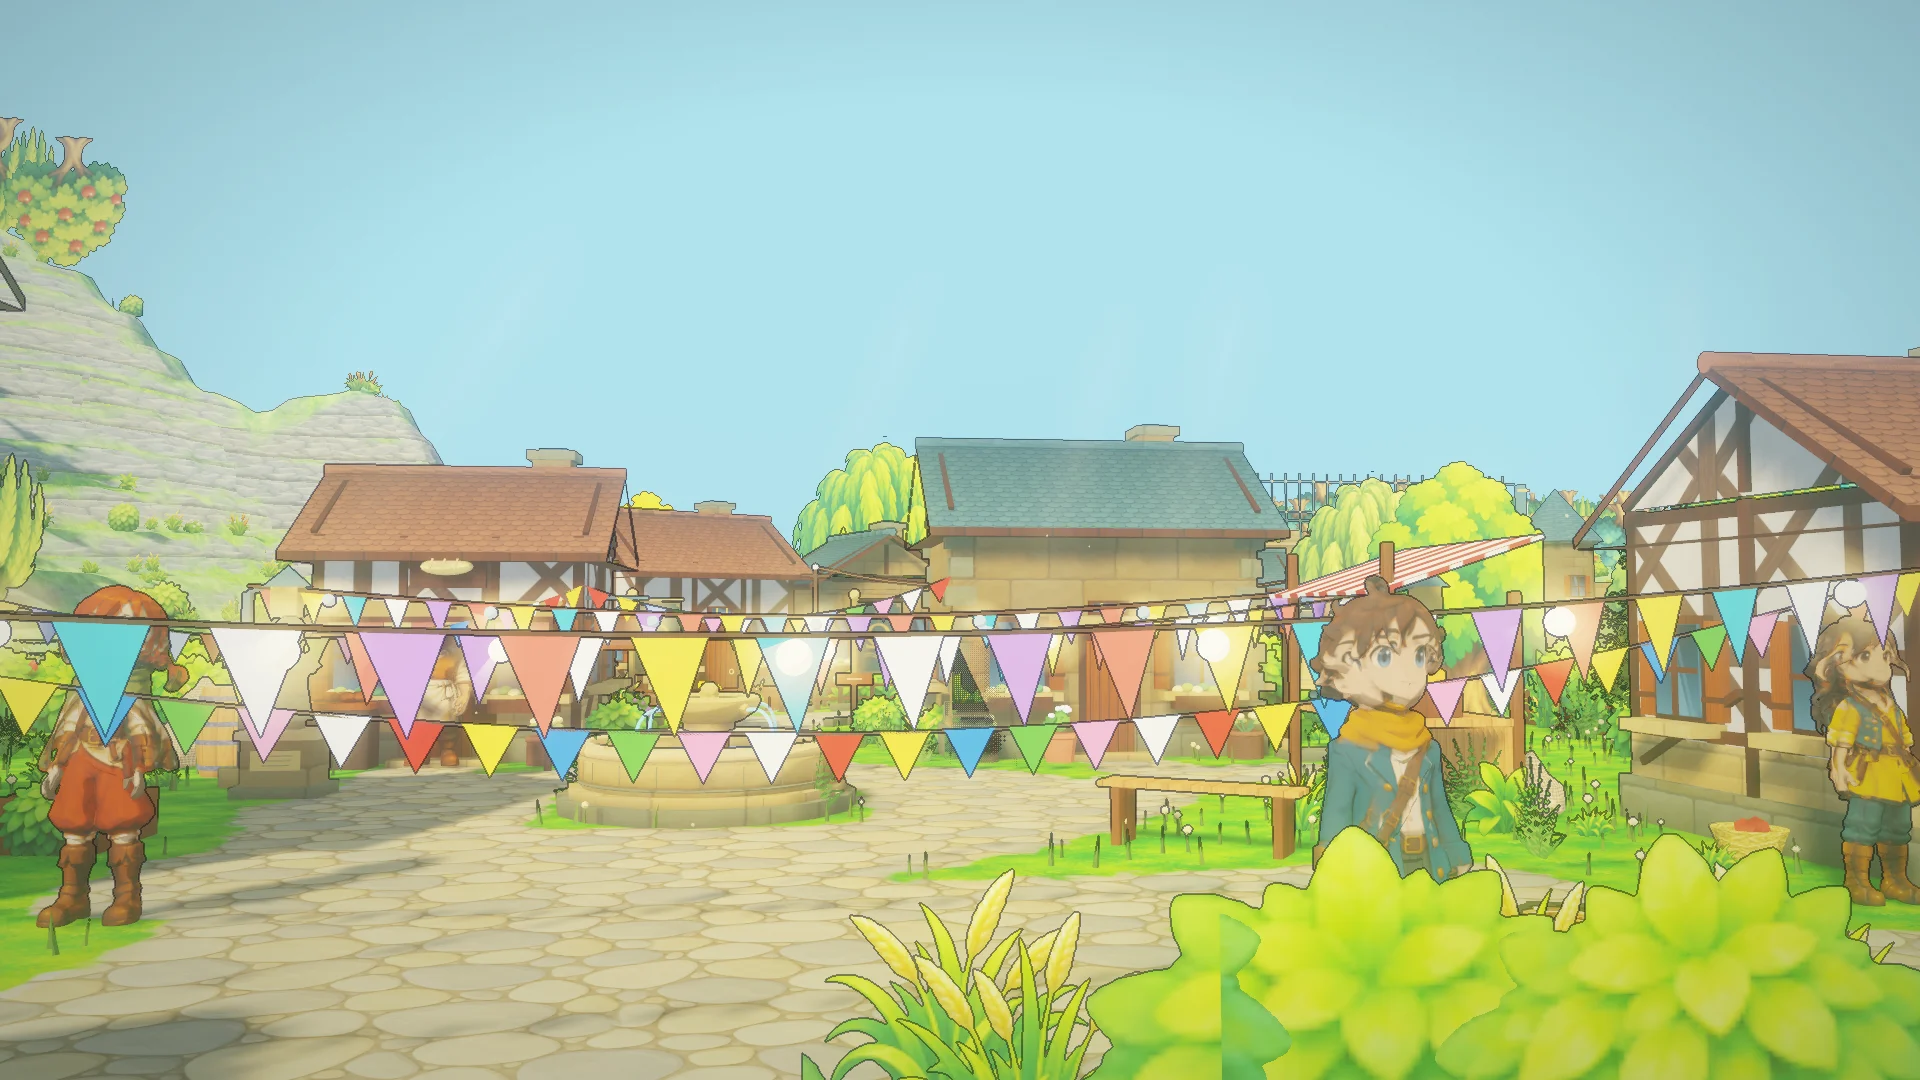
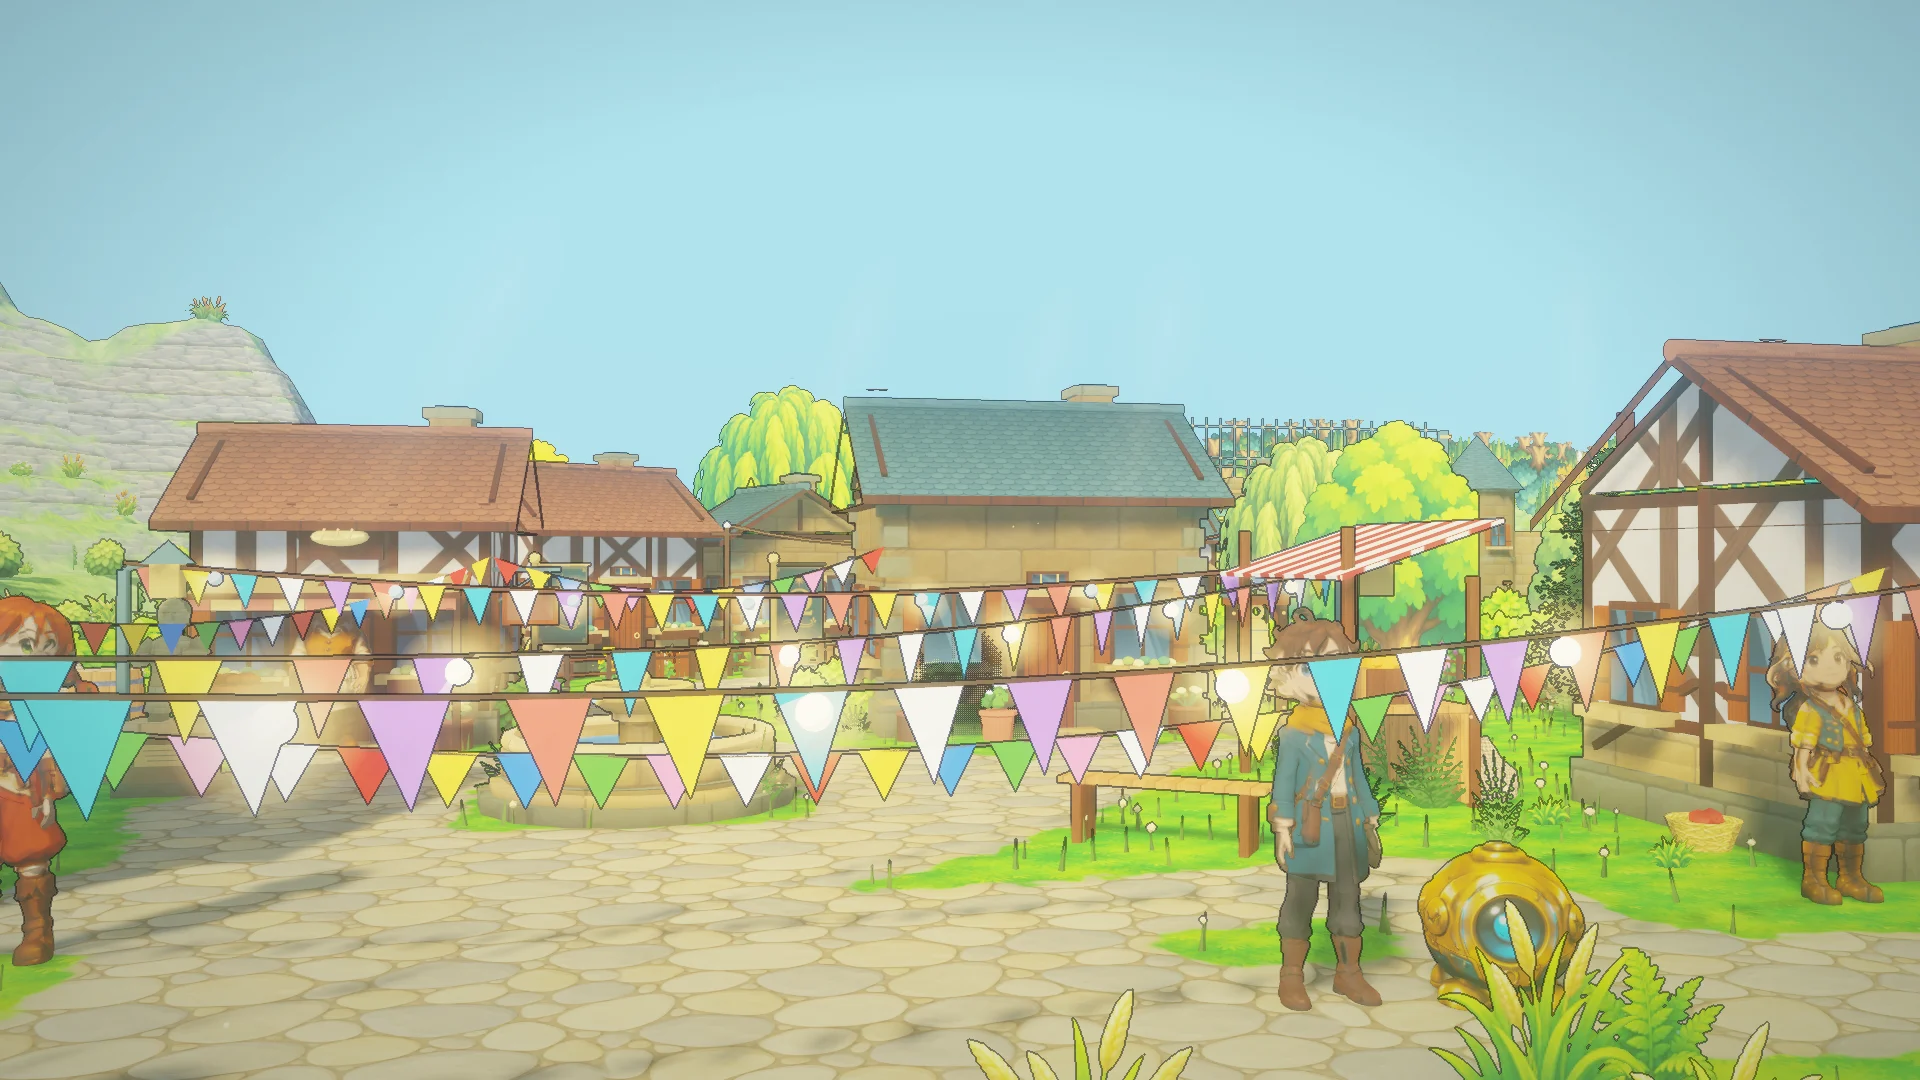
Arco I jugado completo en el estilo X e Y con los diez personajes en 3D, y lo que el juego reveló
Recorrido de punta a punta sin errores (?estilo=xy&gente=3d). Al jugarlo: el viajero apoyado en
una baranda quedaba inmóvil (ahora sale al punto libre más cercano, con prueba), el contorno pedía
la profundidad antes de tiempo (textura de reserva), las llegadas se llenaban de arbustos (menos
vegetación de relleno y cámara algo más abierta en X e Y) y el taller sin restaurar era ilegible.
Interfaz y bancos en X e Y, cielo azul y portada con el reino real.

diff --git a/experiments/playcanvas/src/xy-ui.css b/experiments/playcanvas/src/xy-ui.css
@@ -38,5 +38,14 @@ html[data-estilo="xy"] :is(#ohm-button,#journal-button,#map-button,#guide-button
 html[data-estilo="xy"] :is(#ohm-button,#journal-button,#map-button,#guide-button,#pause-button) *{color:var(--xy-blue-deep)!important;stroke:currentColor}
 html[data-estilo="xy"] #travel-instrument{border-radius:24px!important}
 /* The title: the kingdom itself (scripts/portada.mjs), a soft shade on the left so the name reads. */
-html[data-estilo="xy"] .title-art{background-image:linear-gradient(90deg,#0d2a44cc 0%,#0d2a4488 30%,#0d2a4400 55%),url('/assets/xy/portada.webp')!important;background-size:cover!important;background-position:center!important}
+html[data-estilo="xy"] .title-art{background-image:linear-gradient(90deg,#0d2a44dd 0%,#0d2a4499 28%,#0d2a4400 48%),url('/assets/xy/portada.webp')!important;background-size:cover!important;background-position:center!important}
 html[data-estilo="xy"] .title-screen :is(h1,.title-logo){text-shadow:0 3px 0 #0d2a4480,0 0 30px #0d2a4466}
+/* The arrival banner: a white rounded plate with the place's name, as when entering a town. */
+html[data-estilo="xy"] .arrival{background:none!important}
+html[data-estilo="xy"] .arrival::before,html[data-estilo="xy"] .arrival::after{display:none!important}
+html[data-estilo="xy"] .arrival h2{display:inline-block;background:#fff;color:var(--xy-blue-deep)!important;font-family:var(--xy-font)!important;font-weight:800;padding:8px 28px 10px;border-radius:999px;border:4px solid var(--xy-blue);box-shadow:0 6px 0 var(--xy-blue-deep),0 14px 30px #0b2a4440;text-shadow:none!important}
+html[data-estilo="xy"] .arrival p{color:#fff!important;font-family:var(--xy-font)!important;font-weight:700;text-shadow:0 2px 0 #0b2a44aa,0 0 14px #0b2a4488!important}
+html[data-estilo="xy"] .arrival .eyebrow{color:#fff!important;text-shadow:0 2px 0 #0b2a44aa!important}
+html[data-estilo="xy"] .arrival-line{display:none}
+html[data-estilo="xy"] .title-shade{background:linear-gradient(0deg,#0d2a4455,transparent 30%)!important}
+html[data-estilo="xy"] .title-art{background-position:60% center!important}

diff --git a/experiments/playcanvas/src/world.js b/experiments/playcanvas/src/world.js
@@ -545,7 +545,7 @@ export class PlayCanvasWorld {
   }
   updateEnvironment(dt,reduced){
     const f=this.state.flags,phase=journeyPhase(this.state),inside=this.indoors(),mix=1-Math.exp(-dt*.8);this.lampLevel??=phase.lamps;this.lampLevel+=(phase.lamps-this.lampLevel)*mix;
-    const n=this.lampLevel;if(this.wasInside!==inside){this.wasInside=inside;if(inside)this.camera.camera.clearColor=color('#000000');}const lit=!inside||!!this.home||f.workshop;this.sun.light.intensity+=((inside?(this.home?.16:lit?.85:.5):phase.intensity*.5)-this.sun.light.intensity)*mix;this.sun.light.color.lerp(this.sun.light.color,xySun(color(phase.sun)),mix);this.app.scene.ambientLight.lerp(this.app.scene.ambientLight,color(inside?(this.home?'#3a2e26':lit?'#7c7967':'#4d5a63'):XY?(n>.7?'#7d93c4':'#a9bcd6'):n>.7?'#687f9b':'#92a7a0'),mix);this.camera.camera.clearColor.lerp(this.camera.camera.clearColor,color(inside?'#000000':(XY&&XY_SKIES[phase.id])||phase.sky),mix);
+    const n=this.lampLevel;if(this.wasInside!==inside){this.wasInside=inside;if(inside)this.camera.camera.clearColor=color('#000000');}const lit=!inside||!!this.home||f.workshop;this.sun.light.intensity+=((inside?(this.home?.16:lit?.85:.5):phase.intensity*.5)-this.sun.light.intensity)*mix;this.sun.light.color.lerp(this.sun.light.color,xySun(color(phase.sun)),mix);this.app.scene.ambientLight.lerp(this.app.scene.ambientLight,color(inside?(this.home?(XY?'#6a5a4c':'#3a2e26'):lit?(XY?'#9a9682':'#7c7967'):(XY?'#7d8a96':'#4d5a63')):XY?(n>.7?'#7d93c4':'#a9bcd6'):n>.7?'#687f9b':'#92a7a0'),mix);this.camera.camera.clearColor.lerp(this.camera.camera.clearColor,color(inside?'#000000':(XY&&XY_SKIES[phase.id])||phase.sky),mix);
     // A place nobody has restored yet is literally dimmer: muted and cool. Its colour floods
     // back with the restoration, and crossing into a forgotten place drains it again.
     const alive=f[power[this.area.id]]?1:0;this.vitality??=alive;

diff --git a/experiments/playcanvas/src/game/collision.js b/experiments/playcanvas/src/game/collision.js
@@ -88,8 +88,21 @@ function stopAxisAtWall(position, target, axis, obstacles, radius) {
  * position explicitly instead of movement silently teleporting through a wall.
  */
 export function moveWithCollisions(start, delta, bounds, obstacles = [], options = {}) {
-  const position = [...start];
-  if (!finitePoint(delta) || !isPositionClear(position, bounds, obstacles, options)) return position;
+  let position = [...start];
+  if (!finitePoint(delta)) return position;
+  if (!isPositionClear(position, bounds, obstacles, options)) {
+    // A walker resting a few centimetres inside a clearance (against a railing, after a talk) steps out
+    // to the nearest clear point first, preferring the way it wants to go. Truly embedded: no move.
+    const touch = { ...options, radius: 0 };
+    if (!isPositionClear(position, bounds, obstacles, touch)) return position;
+    const len = Math.hypot(delta[0], delta[1]) || 1, want = [delta[0] / len, delta[1] / len];
+    const leads = [];
+    for (let r = .01; r <= .0801; r += .01) for (let i = 0; i < 16; i++) { const a = i * Math.PI / 8, d = [Math.cos(a), Math.sin(a)]; leads.push({ r, d, score: r - (d[0] * want[0] + d[1] * want[1]) * .03 }); }
+    leads.sort((a, b) => a.score - b.score);
+    const lead = leads.map(l => [start[0] + l.d[0] * l.r, start[1] + l.d[1] * l.r]).find(p => isPositionClear(p, bounds, obstacles, options) && isSegmentClear(start, p, bounds, obstacles, touch));
+    if (!lead) return position;
+    position = lead; start = lead;
+  }
   const { radius = .34, margin = .6, maxStep = .1 } = options;
   const halfX = bounds[0] / 2 - margin, halfZ = bounds[1] / 2 - margin;
   const goal = [Math.max(-halfX, Math.min(halfX, start[0] + delta[0])), Math.max(-halfZ, Math.min(halfZ, start[1] + delta[1]))];

diff --git a/src/collision.js b/src/collision.js
@@ -88,8 +88,21 @@ function stopAxisAtWall(position, target, axis, obstacles, radius) {
  * position explicitly instead of movement silently teleporting through a wall.
  */
 export function moveWithCollisions(start, delta, bounds, obstacles = [], options = {}) {
-  const position = [...start];
-  if (!finitePoint(delta) || !isPositionClear(position, bounds, obstacles, options)) return position;
+  let position = [...start];
+  if (!finitePoint(delta)) return position;
+  if (!isPositionClear(position, bounds, obstacles, options)) {
+    // A walker resting a few centimetres inside a clearance (against a railing, after a talk) steps out
+    // to the nearest clear point first, preferring the way it wants to go. Truly embedded: no move.
+    const touch = { ...options, radius: 0 };
+    if (!isPositionClear(position, bounds, obstacles, touch)) return position;
+    const len = Math.hypot(delta[0], delta[1]) || 1, want = [delta[0] / len, delta[1] / len];
+    const leads = [];
+    for (let r = .01; r <= .0801; r += .01) for (let i = 0; i < 16; i++) { const a = i * Math.PI / 8, d = [Math.cos(a), Math.sin(a)]; leads.push({ r, d, score: r - (d[0] * want[0] + d[1] * want[1]) * .03 }); }
+    leads.sort((a, b) => a.score - b.score);
+    const lead = leads.map(l => [start[0] + l.d[0] * l.r, start[1] + l.d[1] * l.r]).find(p => isPositionClear(p, bounds, obstacles, options) && isSegmentClear(start, p, bounds, obstacles, touch));
+    if (!lead) return position;
+    position = lead; start = lead;
+  }
   const { radius = .34, margin = .6, maxStep = .1 } = options;
   const halfX = bounds[0] / 2 - margin, halfZ = bounds[1] / 2 - margin;
   const goal = [Math.max(-halfX, Math.min(halfX, start[0] + delta[0])), Math.max(-halfZ, Math.min(halfZ, start[1] + delta[1]))];

diff --git a/tests/navigation.test.js b/tests/navigation.test.js
@@ -1,6 +1,7 @@
 import test from 'node:test';
 import assert from 'node:assert/strict';
 import {findPath} from '../src/navigation.js';
+import {moveWithCollisions} from '../src/collision.js';
 function assertClear(start,path,obstacles){let a=start;for(const b of path){for(let t=0;t<=1;t+=.01){const x=a[0]+(b[0]-a[0])*t,z=a[1]+(b[1]-a[1])*t;assert.ok(!obstacles.some(o=>Math.abs(x-o.x)<o.w+.34&&Math.abs(z-o.z)<o.d+.34),'route crosses an obstacle');}a=b;}}
 test('click-to-walk routes around a building through real open space',()=>{const obstacles=[{x:0,z:0,w:2,d:3}],start=[-6,0],goal=[6,0];const path=findPath(start,goal,[20,20],obstacles);assert.ok(path.length>1);assert.deepEqual(path.at(-1),goal);assertClear(start,path,obstacles);});
 test('direct unobstructed walking remains direct',()=>assert.deepEqual(findPath([0,0],[5,5],[20,20],[]),[[5,5]]));
@@ -54,4 +55,11 @@ test('a walker resting against a railing still gets a route, leaving from its ow
   assert.ok(path[0][1]>=.44,'It starts on the walker\'s side of the railing');
   assertClear(path[0],path.slice(1),railing);
   assert.deepEqual(path.at(-1),goal);
+});
+
+test('a walker grazing a railing can always step away from it',()=>{
+  // The Lago's dock: after talking to Nereo the traveller rested 2 cm inside the railing's clearance
+  // and no key moved it any more.
+  const railing=[{x:0,z:0,w:4,d:.1}],start=[1,.42],opts={radius:.34};
+  for(const delta of [[-.2,0],[0,.2],[.2,0],[-.14,.14]]){const end=moveWithCollisions(start,delta,[20,20],railing,opts);assert.ok(Math.hypot(end[0]-start[0],end[1]-start[1])>.05,`moves ${delta}`);assert.ok(end[1]>=.44,'stays on its side');}
 });

diff --git a/experiments/playcanvas/src/flora.js b/experiments/playcanvas/src/flora.js
@@ -106,8 +106,8 @@ export async function sowFlora(world){
       if(shoreline)pool=REEDS;
       else if(clear==='low'){if(r>.18)continue;pool=SHORT;}
       else if(garden){if(r>.35)continue;pool=GARDEN;}
-      else if(edge){if(r>.3)continue;pool=EDGE;}
-      else if(!inside){if(r>.1+patch*.55)continue;pool=WILD;}
+      else if(edge){if(r>(XY?.18:.3))continue;pool=EDGE;}
+      else if(!inside){if(r>(.1+patch*.55)*(XY?.4:1))continue;pool=WILD;}
       else{if(r>patch*.3-.06)continue;pool=LOW;}
       let [sheet,row,height]=pick(pool,hash(gx,gz,4));
       if(clear==='bloom'&&FLOWERS.has(sheet+row))[sheet,row,height]=['a',0,.4];
@@ -135,7 +135,8 @@ export async function sowFlora(world){
   for(let j=0;j<grid.rows;j+=2)for(let i=0;i<grid.cols;i+=2){
     const X=grid.x0+(i+hash(i,j,70)*2)*grid.cell,Z=grid.z0+(j+hash(i,j,71)*2)*grid.cell,y=reliefHeight(X,Z);
     if(y<.4||reliefSlope(X,Z)>.8||claimed.has(Math.floor(X/SPACING)+','+Math.floor(Z/SPACING))||quietMountKeepsClear(X,Z,y))continue;
-    if(hash(i,j,72)>.25+noise(X*.05,Z*.05)*.55)continue;
+    // X and Y: painted plants are bigger and brighter; far fewer read as a clean, open countryside.
+    if(hash(i,j,72)>(.25+noise(X*.05,Z*.05)*.55)*(XY?.38:1))continue;
     const [sheet,row,height]=pick(WILD,hash(i,j,73)),cell=plants[sheet][row*4+Math.floor(hash(i,j,74)*4)];if(!cell)continue;
     const h=height*(.9+hash(i,j,75)*.5),w=h*cell.aspect,b=batches[sheet],base=b.positions.length/3,tint=.8+hash(i,j,76)*.2,[u0,v0,u1,v1]=cell.uv;
     b.positions.push(X-w/2,y,Z, X+w/2,y,Z, X+w/2,y+h,Z, X-w/2,y+h,Z);b.uvs.push(u0,v1,u1,v1,u1,v0,u0,v0);

diff --git a/experiments/playcanvas/src/style.js b/experiments/playcanvas/src/style.js
@@ -73,11 +73,14 @@ export function xyFrame(frame,app,cameraComponent){
   frame.update();
   // The compose pass does not bind the scene depth by itself: the ink reads it every frame.
   const params=new Float32Array(4),depth=device.scope.resolve('uInkDepth'),camera=device.scope.resolve('uInkCamera'),linear=device.scope.resolve('uInkLinear');
-  app.on('prerender',()=>{const internal=cameraComponent.camera;if(!internal.sceneDepthMap)return;depth.setValue(internal.sceneDepthMap);camera.setValue(internal.fillShaderParams(params));linear.setValue(internal.shaderParams.sceneDepthMapLinear?1:0);});
+  // Before the first depth pass (and while a place is swapped) the ink reads a flat stand-in: no edges.
+  const flat=new Texture(device,{name:'tinta-vacia',width:1,height:1,format:PIXELFORMAT_RGBA8,mipmaps:false});flat.lock().set([0,0,0,255]);flat.unlock();
+  depth.setValue(flat);linear.setValue(1);
+  app.on('prerender',()=>{const internal=cameraComponent.camera;if(!internal.sceneDepthMap){depth.setValue(flat);linear.setValue(1);return;}depth.setValue(internal.sceneDepthMap);camera.setValue(internal.fillShaderParams(params));linear.setValue(internal.shaderParams.sceneDepthMapLinear?1:0);});
 }
 
 /** The X and Y camera: nearer and steeper than the HD-2D long lens. */
-export const XY_LENS={fov:true,distance:.52,pitch:40};
+export const XY_LENS={fov:true,distance:.6,pitch:43};
 
 // The X and Y light through the day: clean and saturated by day, a warm but still colourful sunset,
 // a blue dusk and night that keep their hues. [saturation, tint r, g, b, brightness]

diff --git a/docs/produccion-aaa/ESTILO-XY.md b/docs/produccion-aaa/ESTILO-XY.md
@@ -152,3 +152,38 @@ Lo nuevo con Edda:
 - **La capa.** Es lo más difícil: debajo, la camisa y las mangas quedan mezcladas en las regiones
   del kit. En el juego no se nota, porque se ve la textura pintada. Para imprimir, la capa va a
   necesitar retoque a mano o una pieza aparte.
+
+## El elenco completo, la interfaz y el Arco I jugado en X e Y (ciclo 28, 12–13 oct 2026)
+
+- **Diez personajes en 3D:** el viajero, Edda, Lumen, Marín, Vega, Nereo, Tala, Yesca, Ivara y Ohm,
+  cada uno con su esqueleto, sus regiones de color (`personajes/`) y su kit (`kits/`). Ohm es un
+  robot, con cuerpo y dos pies, y camina balanceándose. La cola de formas (`scripts/ia3d/cola.sh`)
+  trabaja de a uno, porque hay una sola GPU. Las texturas van en JPEG: los diez modelos pesan 22 MB.
+- **Animaciones compartidas:** caminar; hablar (gesto de mano y asentir); festejar (brazos arriba y
+  saltito); en reposo, respirar y mirar alrededor.
+- **Bancos en X e Y** (`src/puzzles.css`, bloque final): paneles blancos redondeados, encabezado
+  celeste, mesa de roble claro, botones con forma de píldora, cartel de éxito con sello verde,
+  pista amarilla. Lo que está sobre la mesa conserva su tinta clara.
+- **Interfaz del juego en X e Y** (`src/xy-ui.css`): diálogo con caja blanca y borde azul,
+  instrumento de viaje y objetivo en tarjeta blanca, avisos E y Q como botones de píldora,
+  botones redondos blancos, cartel de llegada.
+- **Cielo y portada:** cielo azul de verdad. La portada es el reino real, sacado del juego
+  (`scripts/portada.mjs`), con el viajero y Ohm en primer plano.
+- **Saturación:** con la cámara cercana, las llegadas mostraban sobre todo los arbustos del camino.
+  En X e Y la vegetación de relleno baja a cerca del 40 % y la cámara se abrió un poco (distancia
+  0,6, inclinación 43°).
+- **Interiores:** sin restaurar se ven, en penumbra pero legibles.
+- **Errores encontrados y corregidos al jugar:**
+  - Quien quedaba apoyado en una baranda (en el muelle del Lago, después de hablar con Nereo) no se
+    podía mover. Ahora sale hacia el punto libre más cercano (`src/collision.js`, con su prueba).
+  - El contorno pedía la profundidad antes de que existiera. Ahora usa una textura de reserva.
+- **Verificado:** el recorrido completo en `?estilo=xy&gente=3d` pasa de punta a punta, sin errores
+  (`output/pt-xy3`): 9 lugares, 9 bancos, 9 recuerdos, final y recarga. Flujo de bancos correcto.
+  Pruebas: raíz 340/340, PlayCanvas 111/111.
+
+**Pendiente:**
+- los bancos en el teléfono (3 o 4 de 9 necesitan desplazarse);
+- la pantalla para elegir pelo, piel y ropa del viajero;
+- las caras de cerca, que dependen de la textura proyectada;
+- simplificar la geometría de los personajes;
+- decidir si el estilo X e Y pasa a ser el estilo por defecto.
